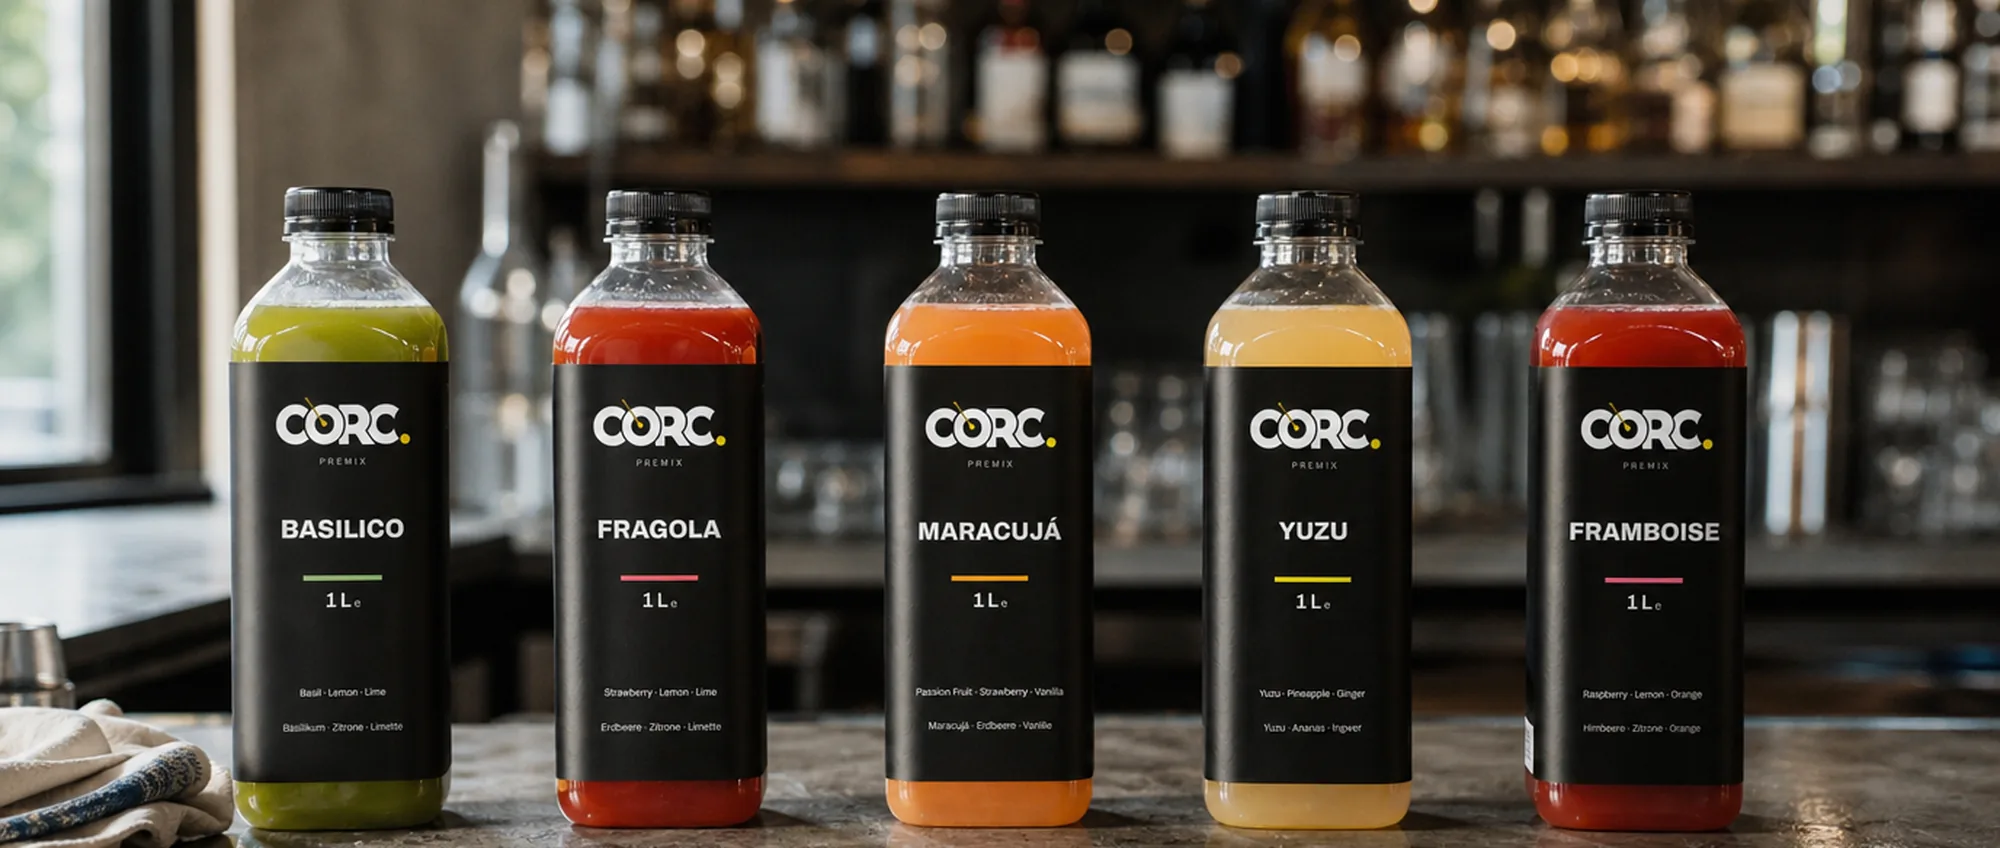
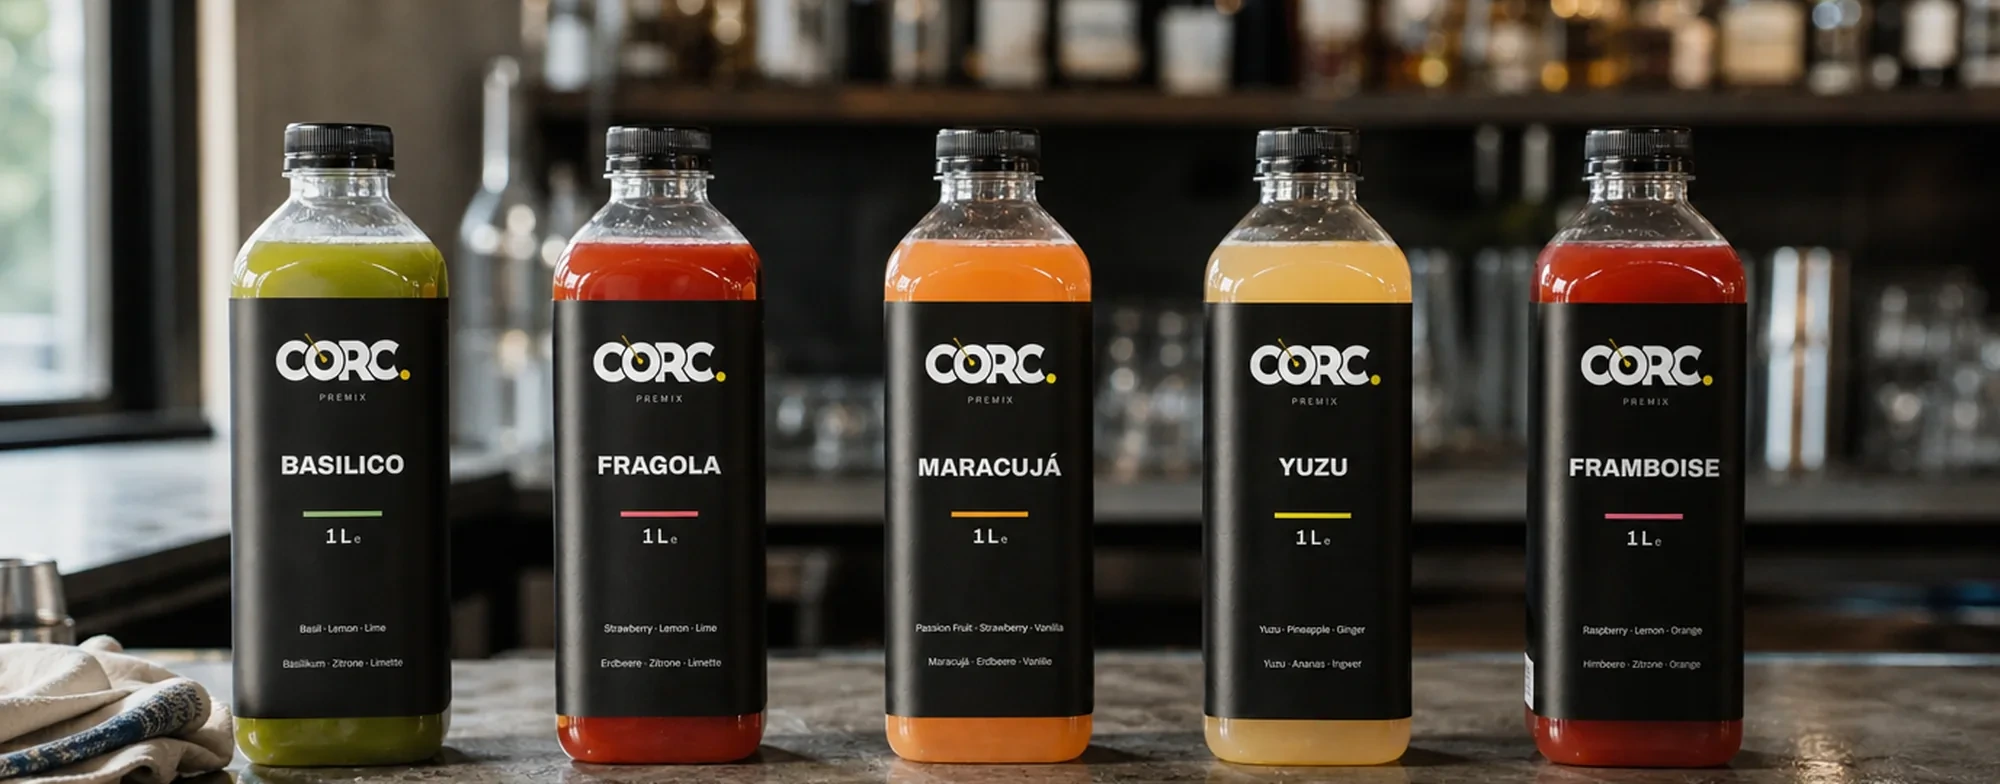
Crop the hero from the top so the bottles stand whole
The frame cut the bottles just below the ingredient line and the
bottom fade dimmed what was left of it. Taking sixty four pixels of
blurred shelf off the top lets the photo fill the hero without a
vertical crop at common widths, and a shorter fade keeps the ingredient
lines legible.

Claude-Session: https://claude.ai/code/session_01YXukmga9EVv1kzHMcfzisd

diff --git a/src/lib/landing/Hero.svelte b/src/lib/landing/Hero.svelte
@@ -33,7 +33,7 @@
 			src={hero}
 			alt={t.hero.imageAlt}
 			width="2000"
-			height="848"
+			height="784"
 			fetchpriority="high"
 			class={[
 				'absolute inset-0 -z-10 h-full w-full object-cover object-[68%_center] transition-transform duration-1000 ease-out',
@@ -68,7 +68,7 @@
 		class="absolute inset-0 -z-10 bg-linear-to-r from-background via-background/75 to-background/15 max-sm:via-background/85 max-sm:to-background/55"
 	></div>
 	<div
-		class="absolute inset-x-0 bottom-0 -z-10 h-32 bg-linear-to-t from-background to-transparent"
+		class="absolute inset-x-0 bottom-0 -z-10 h-20 bg-linear-to-t from-background to-transparent"
 	></div>
 
 	<div class="mx-auto flex min-h-[min(44rem,82svh)] max-w-6xl items-center px-5 py-20">
